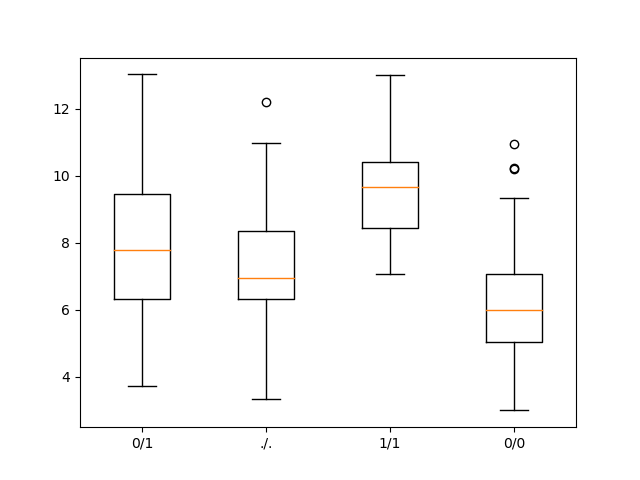
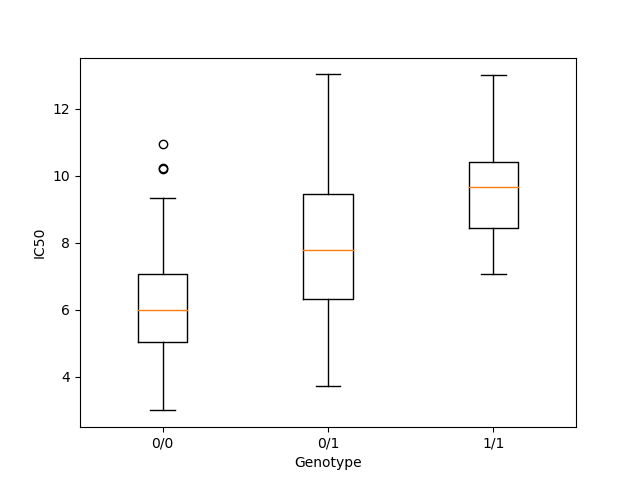
refined graphs

diff --git a/week4-homework/gwas_data/assignment6.py b/week4-homework/gwas_data/assignment6.py
@@ -83,19 +83,17 @@ for line in phenotype[1:]:
 # #{'1001_1001': ('0/1', 6.927465594), '1002_1002': ('0/1', 11.88728968), '1003_1003': ('./.', 12.18924303), '1004_1004': ('0/1', 11.95346787), '1005_1005': ('0/1', 8.836499122), '1006_1006': ('0/1', 8.153960118), '1007_1007': ('1/1', 10.23771873), '1008_1008': ('1/1', 9.354080993), '1009_1009': ('0/1', 9.596693723), '1010_1010': ('0/1', 6.272276985), '1011_1011': ('1/1', 9.962993694), '1012_1012': ('0/1', 6.355427097), '1013_1013': ('0/1', 6.191365418), '1014_1014': ('0/1', 8.115864905), '1015_1015': ('0/1', 7.637110778), '1016_1016': ('./.', 6.799138511), '1017_1017': ('./.', 8.344191918), '1018_1018': ('./.', 3.345458436), '1019_1019': ('0/1', 7.97508359), '1020_1020': ('0/1', None), '1021_1021': ('0/1', 7.032349489), '1022_1022': ('0/1', 5.751398414), '1023_1023': ('0/1', 6.7394316), '1024_1024': ('0/1', 5.790128517), '1025_1025': ('0/1', 7.134384401), '1026_1026': ('./.', 6.879968695), '1027_1027': ('0/1', 5.442729589), '1028_1028': ('0/1', 6.442158785), '1029_1029': ('0/1', 6.21293642), '1030_1030': ('0/1', 12.59583597), '1031_1031': ('1/1', 10.96563817), '1032_1032': ('1/1', 7.118429984), '1033_1033': ('0/1', 5.932350589), '1034_1034': ('0/1', 10.92404283), '1035_1035': ('./.', 8.618631976), '1036_1036': ('0/1', 10.91598423), '1037_1037': ('0/1', 6.160189195), '1038_1038': ('0/1', 9.146633095), '1039_1039': ('0/1', 10.32013623), '1040_1040': ('0/1', 9.252982231), '1041_1041': ('0/1', 7.325145319), '1042_1042': ('0/1', None), '1043_1043': ('0/1', 8.765233418), '1044_1044': ('0/1', 10.32392128), '1045_1045': ('0/1', 9.40357222), '1046_1046': ('0/1', 7.778176975), '1047_1047': ('0/1', 11.07849929), '1048_1048': ('0/1', 5.604878388), '1049_1049': ('./.', 10.97003384), '1050_1050': ('0/1', 6.977852204), '1051_1051': ('0/1', 5.385953112), '1052_1052': ('0/1', 9.314439199), '1053_1053': ('0/1', 11.69534853), '1054_1054': ('0/1', 8.352128396), '1055_1055': ('0/1', 13.02082541), '1056_1056': ('0/1', 6.711429987), '1057_1057': ('0/1', 8.493642288), '1058_1058': ('0/1', 10.15762111), '1059_1059': ('0/1', 4.003030729), '1060_1060': ('0/1', 10.7320202), '1061_1061': ('0/1', 5.332106996), '1062_1062': ('0/1', 6.925389915), '1063_1063': ('0/1', 7.987904089), '1064_1064': ('0/1', 11.04614282), '1065_1065': ('0/1', 8.726731202), '1066_1066': ('0/1', 7.045170006), '1067_1067': ('0/1', 9.665069726), '1068_1068': ('0/1', 8.702962383), '1069_1069': ('0/1', 8.128685384), '1070_1070': ('1/1', 13.00120799), '1071_1071': ('0/1', 9.104386476), '1072_1072': ('1/1', 8.890182408), '1073_1073': ('./.', 7.036989305), '1074_1074': ('0/1', 3.74476444), '1075_1075': ('0/1', 6.877282508), '1076_1076': ('0/1', 5.470202082), '1077_1077': ('0/1', 7.726121688), '1078_1078': ('0/1', 5.222070485), '1079_1079': ('0/1', 8.036866182), '1080_1080': ('0/1', 6.77032289), '1081_1081': ('0/1', 6.124536008), '1082_1082': ('./.', 7.77654899), '1083_1083': ('0/1', 9.485704792), '1084_1084': ('0/1', 9.859208699), '1085_1085': ('0/1', 6.126245409), '1086_1086': ('0/1', 10.29302999), '1087_1087': ('./.', 5.228566207), '1088_1088': ('0/1', 5.824170016), '1089_1089': ('1/1', 7.062508215), '1090_1090': ('0/1', 7.108173621), '1091_1091': ('0/0', 9.214520671), '1092_1092': ('0/0', 5.882411704), '1093_1093': ('0/0', 7.024901421), '1094_1094': ('0/0', 7.978502393), '1095_1095': ('0/0', 5.083877685), '1096_1096': ('0/0', 4.859545101), '1097_1097': ('0/0', 7.9357674), '1098_1098': ('0/0', 3.002607025), '1099_1099': ('0/0', 7.900907825), '1100_1100': ('0/0', 5.199353767), '1101_1101': ('0/0', 5.838089388), '1102_1102': ('0/0', 4.655031984), '1103_1103': ('0/0', 4.381403459), '1104_1104': ('0/0', 6.871879556), '1105_1105': ('0/0', 3.471881146), '1106_1106': ('0/0', 6.688271722), '1107_1107': ('0/0', 5.290562466), '1108_1108': ('0/0', 5.05915244), '1109_1109': ('0/0', 3.151105289), '1110_1110': ('0/0', 7.921786943), '1111_1111': ('0/0', 3.9933506), '1112_1112': ('./.', 6.323949734), '1113_1113': ('./.', 3.499082355), '1114_1114': ('0/0', 5.379115514), '1115_1115': ('0/0', 5.986440915), '1116_1116': ('0/0', 6.778259407), '1117_1117': ('0/0', 5.530967215), '1118_1118': ('0/0', 6.254857385), '1119_1119': ('0/0', 7.215670452), '1120_1120': ('0/0', 6.774791751), '1121_1121': ('0/0', 9.343091977), '1122_1122': ('0/0', 7.704510026), '1123_1123': ('0/0', 4.490398431), '1124_1124': ('0/0', 7.308824594), '1125_1125': ('0/0', 6.503046007), '1126_1126': ('0/0', 4.419228628), '1127_1127': ('0/0', 5.108257002), '1128_1128': ('0/0', 4.221031894), '1129_1129': ('0/0', 6.792789278), '1130_1130': ('0/0', 5.274964192), '1131_1131': ('0/1', 6.907481918), '1132_1132': ('0/0', 4.432046846), '1133_1133': ('0/0', 7.258275212), '1134_1134': ('0/0', 7.333912078), '1135_1135': ('0/0', 7.159089325), '1136_1136': ('0/0', 6.381597202), '1137_1137': ('0/0', 4.862449344), '1138_1138': ('0/0', 6.123477813), '1139_1139': ('0/0', 4.891448087), '1140_1140': ('./.', 6.964156628), '1141_1141': ('0/0', 10.23051482), '1142_1142': ('0/0', 4.358214641), '1143_1143': ('0/0', 5.474280237), '1144_1144': ('0/0', 10.93979372), '1145_1145': ('0/0', 4.376321357), '1146_1146': ('0/0', 8.335929813), '1147_1147': ('0/0', 5.697918596), '1148_1148': ('0/0', 4.476186013), '1149_1149': ('0/0', 5.054482115), '1150_1150': ('0/0', 7.886438999), '1151_1151': ('0/0', 6.484608879), '1152_1152': ('0/0', 5.653718412), '1153_1153': ('0/0', 6.662264401), '1154_1154': ('0/0', 8.860227179), '1155_1155': ('0/0', 5.600157182), '1156_1156': ('0/0', 6.800888601), '1157_1157': ('0/0', 7.137640407), '1158_1158': ('0/0', 5.35576389), '1159_1159': ('0/0', 10.1986874), '1160_1160': ('0/0', 4.443463201), '1161_1161': ('0/0', 5.651764807), '1162_1162': ('0/0', 6.642484197), '1163_1163': ('0/0', 9.055302274), '1164_1164': ('0/0', 4.947614107), '1165_1165': ('0/0', 6.538699218), '1166_1166': ('0/0', 6.324535782), '1167_1167': ('0/0', 5.096423477), '1168_1168': ('0/0', 4.795746133), '1169_1169': ('0/0', 6.134792384), '1170_1170': ('0/0', 6.389370903), '1171_1171': ('0/0', 5.995354205), '1172_1172': ('0/0', 5.877558244), '1173_1173': ('0/0', 5.606679377), '1174_1174': ('0/0', 7.102231422), '1175_1175': ('0/0', 6.777682195), '1176_1176': ('0/0', 4.742201188)}
 
 ds = [genotype_dict, phenotype_dict]
-d = {'0/1':[], './.':[], '1/1':[], '0/0':[]}
+d = {'0/0':[], '0/1':[], '1/1':[]}
 for key, value in genotype_dict.items():
-    if genotype_dict[key] == '0/1':
-        if phenotype_dict[key] is not None:
+    if phenotype_dict[key] is not None:
+        if genotype_dict[key] == '0/1':
             d['0/1'].append(phenotype_dict[key]) 
-    elif genotype_dict[key] == './.':
-        if phenotype_dict[key] is not None:
-            d['./.'].append(phenotype_dict[key])
-    elif genotype_dict[key] == '1/1':
-        if phenotype_dict[key] is not None:
+        # elif genotype_dict[key] == './.':
+        #     if phenotype_dict[key] is not None:
+        #         d['./.'].append(phenotype_dict[key])
+        elif genotype_dict[key] == '1/1':
             d['1/1'].append(phenotype_dict[key])
-    elif genotype_dict[key] == '0/0':
-        if phenotype_dict[key] is not None:
+        elif genotype_dict[key] == '0/0':
             d['0/0'].append(phenotype_dict[key])
 # print(d)
 # {'0/1': [6.927465594, 11.88728968, 11.95346787, 8.836499122, 8.153960118, 9.596693723, 6.272276985, 6.355427097, 6.191365418, 8.115864905, 7.637110778, 7.97508359, 7.032349489, 5.751398414, 6.7394316, 5.790128517, 7.134384401, 5.442729589, 6.442158785, 6.21293642, 12.59583597, 5.932350589, 10.92404283, 10.91598423, 6.160189195, 9.146633095, 10.32013623, 9.252982231, 7.325145319, 8.765233418, 10.32392128, 9.40357222, 7.778176975, 11.07849929, 5.604878388, 6.977852204, 5.385953112, 9.314439199, 11.69534853, 8.352128396, 13.02082541, 6.711429987, 8.493642288, 10.15762111, 4.003030729, 10.7320202, 5.332106996, 6.925389915, 7.987904089, 11.04614282, 8.726731202, 7.045170006, 9.665069726, 8.702962383, 8.128685384, 9.104386476, 3.74476444, 6.877282508, 5.470202082, 7.726121688, 5.222070485, 8.036866182, 6.77032289, 6.124536008, 9.485704792, 9.859208699, 6.126245409, 10.29302999, 5.824170016, 7.108173621, 6.907481918], './.': [12.18924303, 6.799138511, 8.344191918, 3.345458436, 6.879968695, 8.618631976, 10.97003384, 7.036989305, 7.77654899, 5.228566207, 6.323949734, 3.499082355, 6.964156628], '1/1': [10.23771873, 9.354080993, 9.962993694, 10.96563817, 7.118429984, 13.00120799, 8.890182408, 7.062508215], '0/0': [9.214520671, 5.882411704, 7.024901421, 7.978502393, 5.083877685, 4.859545101, 7.9357674, 3.002607025, 7.900907825, 5.199353767, 5.838089388, 4.655031984, 4.381403459, 6.871879556, 3.471881146, 6.688271722, 5.290562466, 5.05915244, 3.151105289, 7.921786943, 3.9933506, 5.379115514, 5.986440915, 6.778259407, 5.530967215, 6.254857385, 7.215670452, 6.774791751, 9.343091977, 7.704510026, 4.490398431, 7.308824594, 6.503046007, 4.419228628, 5.108257002, 4.221031894, 6.792789278, 5.274964192, 4.432046846, 7.258275212, 7.333912078, 7.159089325, 6.381597202, 4.862449344, 6.123477813, 4.891448087, 10.23051482, 4.358214641, 5.474280237, 10.93979372, 4.376321357, 8.335929813, 5.697918596, 4.476186013, 5.054482115, 7.886438999, 6.484608879, 5.653718412, 6.662264401, 8.860227179, 5.600157182, 6.800888601, 7.137640407, 5.35576389, 10.1986874, 4.443463201, 5.651764807, 6.642484197, 9.055302274, 4.947614107, 6.538699218, 6.324535782, 5.096423477, 4.795746133, 6.134792384, 6.389370903, 5.995354205, 5.877558244, 5.606679377, 7.102231422, 6.777682195, 4.742201188]}
@@ -106,8 +104,10 @@ for key, value in genotype_dict.items():
 
 fig, ax = plt.subplots(1)
 labels, data = d.keys(), d.values()
-# # print(labels) # dict_keys(['0/1', './.', '1/1', '0/0'])
-# print (data) # dict_values([[6.927465594, 11.88728968, 11.95346787, 8.836499122, 8.153960118, 9.596693723, 6.272276985, 6.355427097, 6.191365418, 8.115864905, 7.637110778, 7.97508359, 7.032349489, 5.751398414, 6.7394316, 5.790128517, 7.134384401, 5.442729589, 6.442158785, 6.21293642, 12.59583597, 5.932350589, 10.92404283, 10.91598423, 6.160189195, 9.146633095, 10.32013623, 9.252982231, 7.325145319, 8.765233418, 10.32392128, 9.40357222, 7.778176975, 11.07849929, 5.604878388, 6.977852204, 5.385953112, 9.314439199, 11.69534853, 8.352128396, 13.02082541, 6.711429987, 8.493642288, 10.15762111, 4.003030729, 10.7320202, 5.332106996, 6.925389915, 7.987904089, 11.04614282, 8.726731202, 7.045170006, 9.665069726, 8.702962383, 8.128685384, 9.104386476, 3.74476444, 6.877282508, 5.470202082, 7.726121688, 5.222070485, 8.036866182, 6.77032289, 6.124536008, 9.485704792, 9.859208699, 6.126245409, 10.29302999, 5.824170016, 7.108173621, 6.907481918], [12.18924303, 6.799138511, 8.344191918, 3.345458436, 6.879968695, 8.618631976, 10.97003384, 7.036989305, 7.77654899, 5.228566207, 6.323949734, 3.499082355, 6.964156628], [10.23771873, 9.354080993, 9.962993694, 10.96563817, 7.118429984, 13.00120799, 8.890182408, 7.062508215], [9.214520671, 5.882411704, 7.024901421, 7.978502393, 5.083877685, 4.859545101, 7.9357674, 3.002607025, 7.900907825, 5.199353767, 5.838089388, 4.655031984, 4.381403459, 6.871879556, 3.471881146, 6.688271722, 5.290562466, 5.05915244, 3.151105289, 7.921786943, 3.9933506, 5.379115514, 5.986440915, 6.778259407, 5.530967215, 6.254857385, 7.215670452, 6.774791751, 9.343091977, 7.704510026, 4.490398431, 7.308824594, 6.503046007, 4.419228628, 5.108257002, 4.221031894, 6.792789278, 5.274964192, 4.432046846, 7.258275212, 7.333912078, 7.159089325, 6.381597202, 4.862449344, 6.123477813, 4.891448087, 10.23051482, 4.358214641, 5.474280237, 10.93979372, 4.376321357, 8.335929813, 5.697918596, 4.476186013, 5.054482115, 7.886438999, 6.484608879, 5.653718412, 6.662264401, 8.860227179, 5.600157182, 6.800888601, 7.137640407, 5.35576389, 10.1986874, 4.443463201, 5.651764807, 6.642484197, 9.055302274, 4.947614107, 6.538699218, 6.324535782, 5.096423477, 4.795746133, 6.134792384, 6.389370903, 5.995354205, 5.877558244, 5.606679377, 7.102231422, 6.777682195, 4.742201188]])
+## print(labels) # dict_keys(['0/1', './.', '1/1', '0/0'])
+# print (data) # dict_values([[6.927465594, ..., 4.742201188]])
+plt.xlabel("Genotype")
+plt.ylabel("IC50")
 plt.boxplot(data)
 plt.xticks(range(1, len(labels) + 1), labels)
 plt.savefig("boxplot.png")

diff --git a/week4-homework/gwas_data/assignment5.py b/week4-homework/gwas_data/assignment5.py
@@ -13,6 +13,7 @@ association = np.genfromtxt("output_CB1908.assoc.linear", dtype = None, encoding
 # print(association[0:4])
 
 dictionary = {}
+sig_list = []
 number = 0 # to index
 # print (association[chr, 1])
 
@@ -21,34 +22,36 @@ for i in association[1:]:
     if int(i["chr"]) not in dictionary.keys():
         dictionary[int(i["chr"])] = []
     dictionary[int(i["chr"])].append([number, -np.log10(float(i["pvalue"]))])
+    if -np.log10(float(i["pvalue"])) > 5:
+        sig_list.append([number, -np.log10(float(i["pvalue"]))])
     number += 1
+
 
 print(dictionary[1][:4])
 # [[0, 1.1563935280754891], [1, 0.486516043295743], [2, 0.661145253747677], [3, 0.027612000892527164]]
 ## assuming they are ordered, and they are.
 
-significant = []
+sig = np.array(sig_list).T
 
-fig, ax = plt.subplots(1)
+fig, ax = plt.subplots(1, figsize = (13,10))
 colors = ['darkblue', 'blue']
 x_labels = []
 x_labels_pos = []
 for key, value in dictionary.items():
     # print(value[:4])
     value = np.array(value).T
+    # Transpose: switch one list per row like a matrix
     # x, y = value # ValueError: too many values to unpack (expected 2)
-    ax.scatter(x = value[0], y = value[1], color=colors[key % len(colors)])
+    ax.scatter(x = value[0], y = value[1], color=colors[key % len(colors)], s = 2)
     x_labels.append(str(key))
-    if value[1] > 5:
-        significant.append(value)
     # x_labels_pos.append((group['ind'].iloc[-1] - (group['ind'].iloc[-1] - group['ind'].iloc[0])/2))
-    x_labels_pos.append(max(value[0])/2)
+    x_labels_pos.append((max(value[0])-min(value[0]))/2 + min(value[0]))
+ax.scatter(sig[0], sig[1], color = "red", s = 2)
 ax.set_xticks(x_labels_pos)
 ax.set_xticklabels(x_labels)
 ax.axhline(y=5)
-
-## graph points less than 10^-5 with red color to overwrite
-## if float(i["pvalue"])) < , add to a separate new list in line 22
+ax.set_xlabel("Chromosomes")
+ax.set_ylabel("-log10(P-value)")
 
 ## have lables at correct spots
 ## axes labels

diff --git a/week4-homework/gwas_data/assignment3.py b/week4-homework/gwas_data/assignment3.py
@@ -16,6 +16,8 @@ for i in range(1,len(freq)):
 
 fig, ax = plt.subplots()
 ax.hist(allele_freq)
+ax.set_xlabel("Allele Frequency")
+ax.set_ylabel("Count of Allele Frequency")
 plt.savefig("allele_freq.png")
 plt.xticks(rotation=30, ha='right') 
 plt.show()

diff --git a/week4-homework/gwas_data/README.md b/week4-homework/gwas_data/README.md
@@ -9,12 +9,14 @@ plink --vcf genotypes.vcf --pca 10
 pca eigenval as covariates
 --covar c.txt
 
-controlling for that relatednes
+controlling for that relatedness
 twice
 
 plink --vcf genotypes.vcf --linear --pheno CB1908_IC50.txt --covar plink.eigenvec --allow-no-sex --out output_CB1908
 plink --vcf genotypes.vcf --linear --pheno GS451_IC50.txt --covar plink.eigenvec --allow-no-sex --out output_GS451
 
+Manhattan plot
+hardcoding
 OR
 pip install qmplot
 
@@ -26,5 +28,10 @@ Band: 12q13.13
 Genomic Size: 1
 Summary: A>A/G (chimp allele displayed first, then '>', then human alleles)
 
+This SNP is residing inside DIP2B gene. The nearby genes are LARP4, AL833333, DKFZp686M1483.
+
 DIP2B
-DIP2 disco-interacting protein 2 homolog B (Drosophila) is a protein that in humans is encoded by the DIP2B gene.[5] A member of the disco-interacting protein homolog 2 protein family, it contains a binding site for the transcriptional regulator DNA methyltransferase 1 associated protein 1, as well as AMP-binding sites. The presence of these sites suggests that DIP2B may participate in DNA methylation. This gene is located near a folate-sensitive fragile site.[5][6]
+DIP2 disco-interacting protein 2 homolog B (Drosophila) is a protein that in humans is encoded by the DIP2B gene. A member of the disco-interacting protein homolog 2 protein family, it contains a binding site for the transcriptional regulator DNA methyltransferase 1 associated protein 1, as well as AMP-binding sites. The presence of these sites suggests that DIP2B may participate in DNA methylation. This gene is located near a folate-sensitive fragile site. (Wikipedia)
+
+How could you figure this out if you didn't know?
+Find a reference genome that has no alternative allele shown in our variant. 
